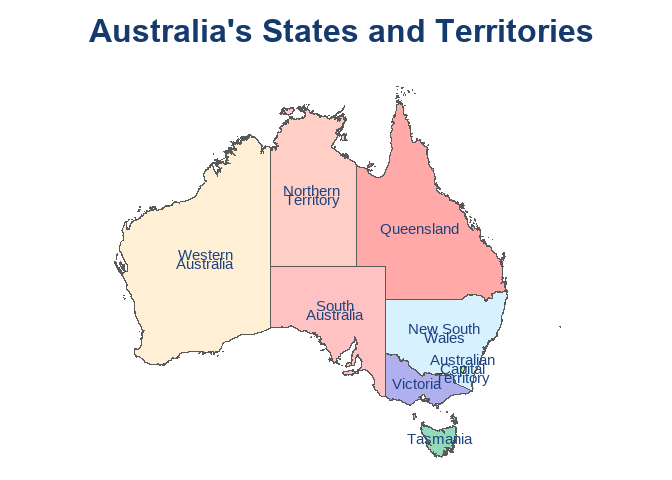
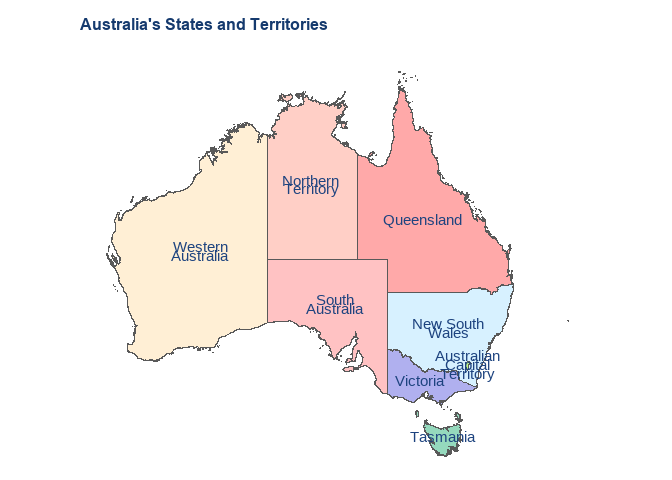
Update font size.

Changed region(s): [[0.1562, 0.1562, 0.7812, 0.9688], [0.125, 0.0312, 0.9062, 0.0938], [0.25, 0.5, 0.3438, 0.5625]]

diff --git a/README.md b/README.md
@@ -185,7 +185,7 @@ ggplot(
   scale_fill_manual(guide='none',values=colorspace::lighten(strayr::palette_state_name_2016,.2)) +
   labs(title="Australia's States and Territories")+
   theme_dohac_map(base_colour = "blue", base_size = 10)
-#> Reading state2021 file found in C:\Users\SAMUEL~1\AppData\Local\Temp\RtmpwHqFVR
+#> Reading state2021 file found in C:\Users\SAMUEL~1\AppData\Local\Temp\RtmpYdaFQ0
 ```
 
 <img src="man/figures/README-map_blue-1.png" width="80%" />
